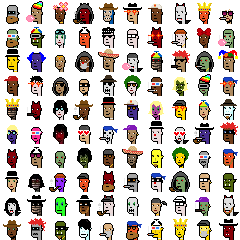
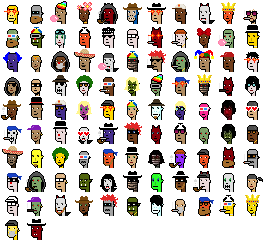
up

diff --git a/ordinals/lib/ordinals/collection.rb b/ordinals/lib/ordinals/collection.rb
@@ -125,6 +125,7 @@ def make_composite
                when    88 then   [10,  9]
                when    99 then   [10,  10]
                when   100 then   [10,  10]
+               when   101 then   [11,  10]
                when   111 then   [11,  11]
                when   130 then   [10,  13]
                when   512 then   [20,  26]

diff --git a/README.md b/README.md
@@ -27,7 +27,7 @@ the [**ordinals package (with the ordbase command-line tool) »**](ordinals)
 New to Ordinal Punks? For some background see [**Awesome 100 Ordinal Punks (Anno 2023) Notes - 24×24 Pixel Art on the (Bitcoin) Blockchain »**](https://github.com/cryptopunksnotdead/cryptopunks/tree/master/awesome-ordinalpunks)
 
 
-**100 Ordinal Phunks (24×24)**
+**100 (+1) Ordinal Phunks (24×24)**
 
 ![](i/ordinalphunks.png)
 
